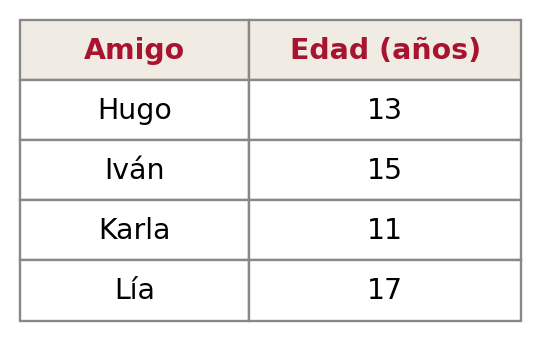
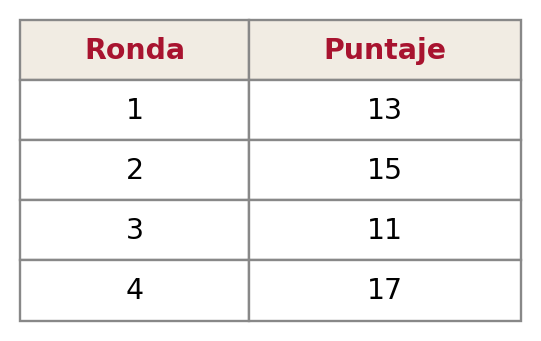
Ajustes P2: cn-10 q18 latex, mat-9 q18 grafica reordenada, mat-10 q14 tabla Ronda/Puntaje, ingles 9/10 sin banco de palabras + bump SEED_VERSION

diff --git a/js/db.js b/js/db.js
@@ -86,7 +86,7 @@ function validarCuadernillo(c) {
 // --- Siembra inicial (solo si la base está vacía) ------------------------------------
 // Versión de contenido: súbela cuando cambien los cuadernillos/instituciones para que un
 // visitante que ya abrió el demo re-siembre automáticamente (sin tener que limpiar el navegador).
-const SEED_VERSION = '2026-07-21-lc6-afiche-a-infografia';
+const SEED_VERSION = '2026-07-23-ajustes-p2-sitio';
 let _sembrado = null;
 async function sembrarSiVacio() {
   let verPrev = null;
